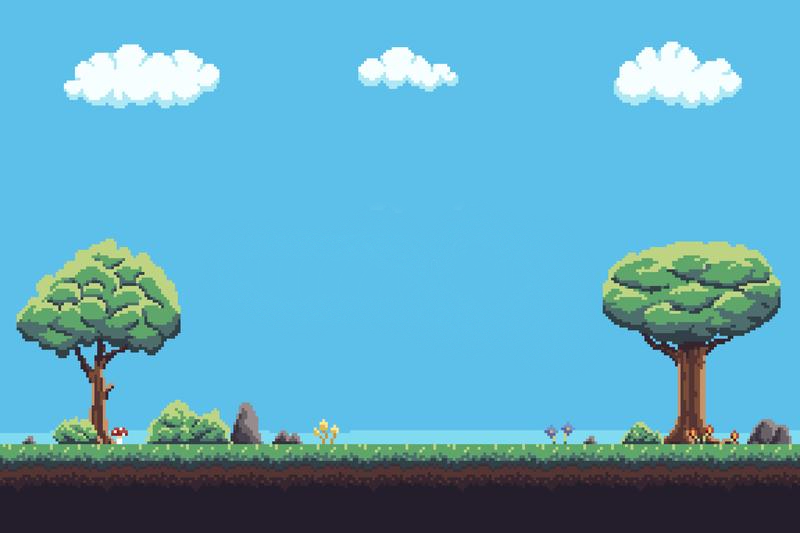
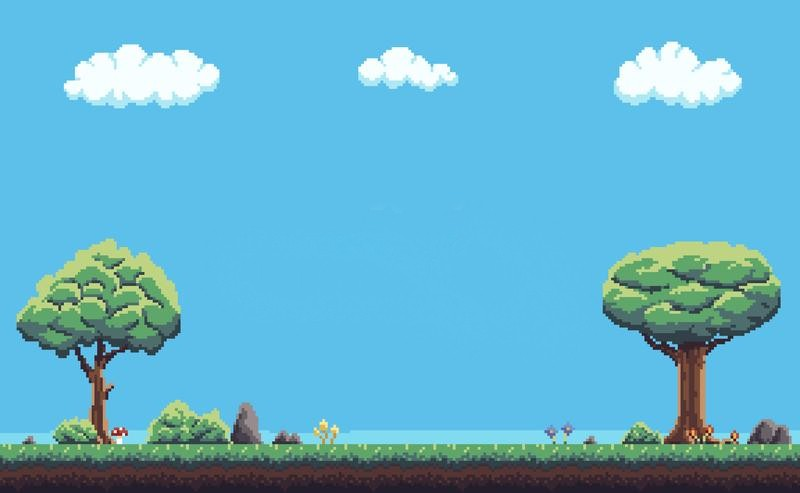
final changes

diff --git a/game.js b/game.js
@@ -133,10 +133,10 @@ function dragElement(elmnt) {
 
     function dragMouseDown(e) {
         if (elmnt.id === "wig" || elmnt.id === "frog") {
-            elmnt.style.width = "10vw";
+            elmnt.style.width = "7vw";
         }
         else if(elmnt.id === "lettuce" || elmnt.id === "chef"){
-            elmnt.style.width = "7vw";
+            elmnt.style.width = "6vw";
         }
         e = e || window.event;
         e.preventDefault();

diff --git a/game.css b/game.css
@@ -28,12 +28,11 @@ main{
    justify-content: center;
    background-color: #e1e0e0;
    background-image: url("src/bg1.jpg");
+   background-position: bottom;
    background-size: 100%;
-   background-position: center;
    border-radius: 2vw;
    position: relative; /* position items relative within the container*/
    padding-bottom: 1vh;
-   transition: background-image 2s fade;
 }
 h1{
    color: #e1e0e0;
